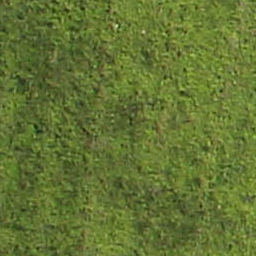
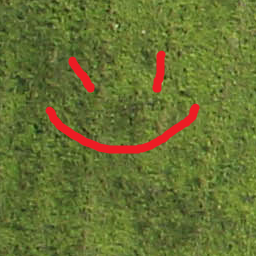
hi

Changed region(s): [[0.1562, 0.4062, 0.7812, 0.625], [0.25, 0.2188, 0.375, 0.375], [0.5938, 0.1875, 0.6562, 0.375]]

diff --git a/MSUUS-master/AUVSI-SUAS_Competition_Code/Ethan_dev/Open_CV_Practice.py b/MSUUS-master/AUVSI-SUAS_Competition_Code/Ethan_dev/Open_CV_Practice.py
@@ -15,6 +15,9 @@ Cf_hsv = cv2.cvtColor(Cf, cv2.COLOR_BGR2HSV)
 #plt.imshow(Cf_hsv)
 #plt.show()
 Cf_gray = cv2.cvtColor(Cf, cv2.COLOR_BGR2GRAY)
+#plt.imshow(Cf_gray)
+#plt.show()
+"""
 (thresh, im_bw) = cv2.threshold(Cf_gray, 128, 255, cv2.THRESH_BINARY | cv2.THRESH_OTSU)
 #plt.imshow(im_bw, cmap='Greys_r')
 #plt.show()
@@ -32,13 +35,14 @@ dark_blue = (100, 150, 40)
 #plt.subplot(1, 2, 2)
 #plt.imshow(hsv_to_rgb(lo_square))
 #plt.show()
-mask = cv2.inRange(Cf_hsv, dark_blue, light_blue)
+mask = cv2.inRange(Cf_hsv, dark_red, light_red)
 result = cv2.bitwise_and(Cf_rgb, Cf_rgb, mask=mask)
-#plt.subplot(1, 2, 1)
-#plt.imshow(mask, cmap="gray")
-#plt.subplot(1, 2, 2)
-#plt.imshow(result)
-#plt.show()
+plt.subplot(1, 2, 1)
+plt.imshow(mask, cmap="gray")
+plt.subplot(1, 2, 2)
+plt.imshow(result)
+plt.show()
+"""
 """
 # Read image
 im = cv2.imread("clifford football.jpg", cv2.IMREAD_GRAYSCALE)
@@ -87,33 +91,41 @@ im_with_keypoints = cv2.drawKeypoints(im, keypoints, np.array([]), (0, 0, 255),
 cv2.imshow("Keypoints", im_with_keypoints)
 cv2.waitKey(0)
 """
+#img = cv2.imread('image0 copy.jpg')
+#img = cv2.imread('smiley_grass_black.jpg')
+#img = cv2.imread('smiley_grass_white.jpg')
+#img = cv2.imread('Grass_pentagon.jpg')
+#img = cv2.imread('smiley_grass.jpg')
+#img = cv2.imread('Grass_big_pentagon.jpg')
+#img = cv2.imread('Grass_pentagon.jpg')
 img = cv2.imread('InkedGrass1.jpg')
 #img = cv2.imread('test copy.jpeg')
-gray = cv2.cvtColor(img,cv2.COLOR_BGR2GRAY)
-ret, thresh = cv2.threshold(gray,0,255,cv2.THRESH_BINARY_INV+cv2.THRESH_OTSU)
+#img = cv2.imread('test_image copy.png')
+gray = cv2.cvtColor(img, cv2.COLOR_BGR2GRAY)
+ret, thresh = cv2.threshold(gray, 0, 255, cv2.THRESH_BINARY_INV+cv2.THRESH_OTSU)
 # noise removal
-kernel = np.ones((3,3),np.uint8)
-opening = cv2.morphologyEx(thresh,cv2.MORPH_OPEN,kernel, iterations = 2)
+kernel = np.ones((3, 3), np.uint8)
+opening = cv2.morphologyEx(thresh, cv2.MORPH_OPEN, kernel, iterations=2)
 # sure background area
-sure_bg = cv2.dilate(opening,kernel,iterations=3)
+sure_bg = cv2.dilate(opening, kernel, iterations=3)
 # Finding sure foreground area
-dist_transform = cv2.distanceTransform(opening,cv2.DIST_L2,5)
-ret, sure_fg = cv2.threshold(dist_transform,0.7*dist_transform.max(),255,0)
+dist_transform = cv2.distanceTransform(opening, cv2.DIST_L2, 5)
+ret, sure_fg = cv2.threshold(dist_transform, 0.7*dist_transform.max(), 255, 0)
 # Finding unknown region
 sure_fg = np.uint8(sure_fg)
-unknown = cv2.subtract(sure_bg,sure_fg)
-plt.imshow(unknown)
+unknown = cv2.subtract(sure_bg, sure_fg)
 # Marker labelling
 ret, markers = cv2.connectedComponents(sure_fg)
 # Add one to all labels so that sure background is not 0, but 1
 markers = markers+1
 # Now, mark the region of unknown with zero
-markers[unknown==255] = 0
-#print(markers)
+markers[unknown == 255] = 0
+markers = cv2.watershed(img, markers)
+img[markers == -1] = [255, 0, 0]
 loc = []
 for i in range(len(markers)):
     for j in range(len(markers[i])):
-        if markers[i][j] != 0:
+        if markers[i][j] == 1:
             loc.append((i, j))
 #loc = np.array([[(markers[i] != 0) for i in range(len(markers[j]))] for j in range(len(markers))])
 print(loc)
@@ -121,12 +133,10 @@ print(len(loc))
 loc.pop(0)
 x = []
 for i in range(len(loc)):
-#    if loc[i][0] > 80:
     x.append(loc[i][0])
 print(x)
 y = []
 for i in range(len(loc)):
-#    if loc[i][1] > 15:
     y.append(loc[i][1])
 print(y)
 minx = np.min(x)
@@ -137,12 +147,12 @@ print(minx)
 print(miny)
 print(maxx)
 print(maxy)
-markers = cv2.watershed(img, markers)
-img[markers == -1] = [255,0,0]  #color of markers
+ #color of markers
 #print(img[markers==-1])
 plt.imshow(img)
 plt.show()
 roi = gray[minx:maxx, miny:maxy]
-roi_rgb = cv2.cvtColor(roi, cv2.COLOR_GRAY2BGR)
+roi_rgb = cv2.cvtColor(roi, cv2.COLOR_GRAY2RGB)
 plt.imshow(roi_rgb)
 plt.show()
+
